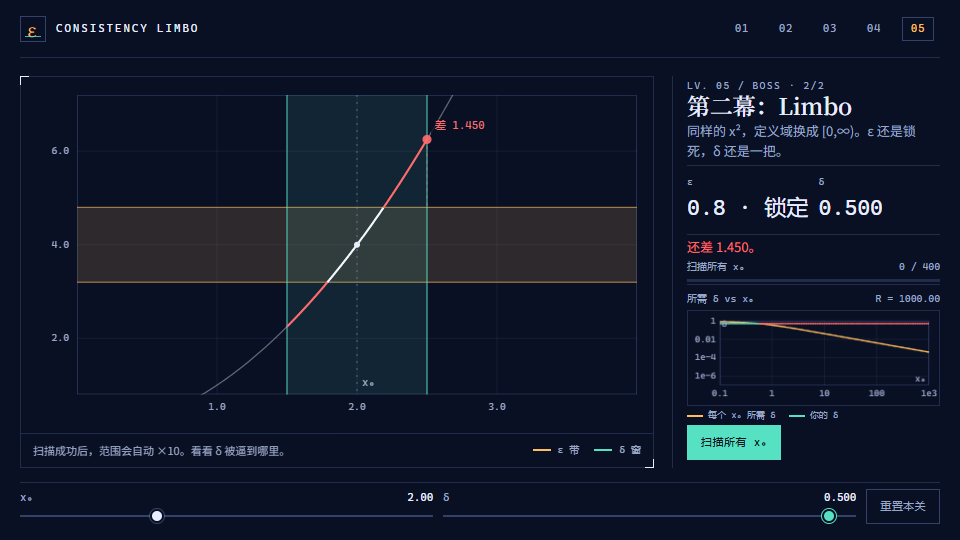
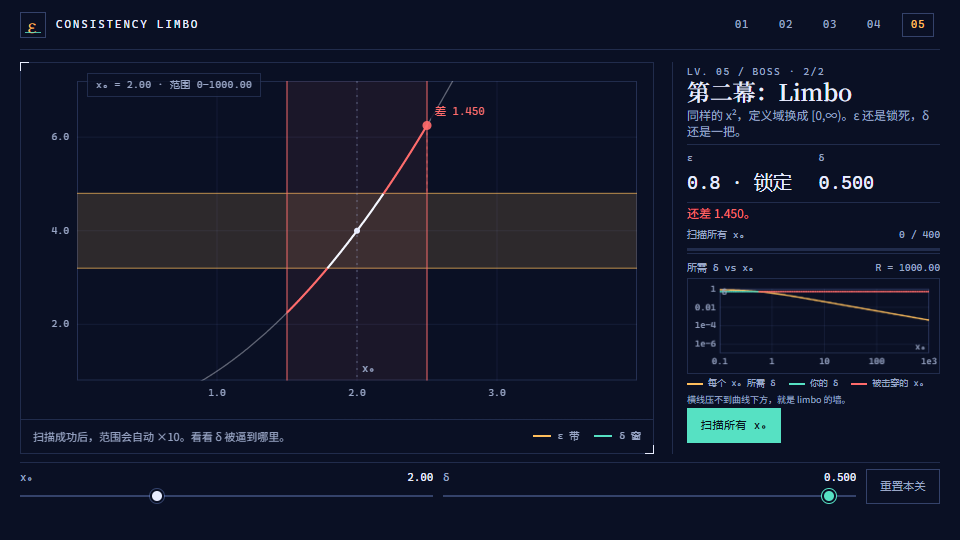
fix: close final review gaps in rendering, accessibility and fit
- clip domain hatches to each undefined mask and mark failing windows red
- make L2 canvas checkpoint markers jump x0; add level and hit tests
- keep the live status stable during scans while progress moves to the scan panel
- give the final overlay dialog semantics, focus and inert background; focus quiz options
- add boss act 2 scale ribbon, chart caption/legend and the honesty line
- harden the dev server (400 on bad encoding, dotfile 403, loopback bind)
- compact short viewports to fit 960x540; fix README wording; refresh GIF/PNG

diff --git a/src/main.js b/src/main.js
@@ -23,6 +23,7 @@ import {
   drawEnvelope,
   makeViewport,
   hitTest,
+  checkpointHit,
   screenToWorld,
 } from './renderer.js';
 
@@ -33,7 +34,9 @@ const reduceMotion = window.matchMedia('(prefers-reduced-motion: reduce)').match
 
 const $ = (id) => document.getElementById(id);
 const el = {
+  app: document.querySelector('.app'),
   canvas: $('canvas'),
+  scaleRibbon: $('scale-ribbon'),
   levelRail: $('level-rail'),
   stageKicker: $('stage-kicker'),
   stageTitle: $('stage-title'),
@@ -68,6 +71,9 @@ let progress = demoMode ? createProgress() : loadProgress();
 let state = createState(levelIndexFromParam(params.get('level')));
 let ui = { quizOpen: false, scanning: false, drag: null, message: null };
 let cameraX0 = state.x0;
+let overlayOpen = false;
+let quizFocusOpen = false;
+let lastStatus = { text: null, tone: null };
 
 function loadProgress() {
   try {
@@ -88,6 +94,37 @@ function saveProgress() {
 
 function delay(ms) {
   return new Promise((resolve) => setTimeout(resolve, ms));
+}
+
+function setStatus(text, tone) {
+  if (lastStatus.text === text && lastStatus.tone === tone) return;
+  lastStatus = { text, tone };
+  el.status.textContent = text;
+  el.status.classList.toggle('pass', tone === 'pass');
+  el.status.classList.toggle('fail', tone === 'fail');
+}
+
+function syncQuizFocus(open) {
+  if (open === quizFocusOpen) return;
+  quizFocusOpen = open;
+  if (open) {
+    el.quizPanel.querySelector('.quiz-option')?.focus();
+  } else if (!el.quizOpen.hidden) {
+    el.quizOpen.focus();
+  }
+}
+
+function syncOverlay(open) {
+  el.finalOverlay.hidden = !open;
+  if (open === overlayOpen) return;
+  overlayOpen = open;
+  el.app.inert = open;
+  if (open) {
+    el.replayButton.focus();
+  } else if (el.finalOverlay.contains(document.activeElement)) {
+    const active = el.levelRail.querySelector('.rail-item.active');
+    if (active) active.focus();
+  }
 }
 
 function formatX0(value) {
@@ -244,8 +281,8 @@ function loadLevel(index, stageIndex = 0) {
   const level = LEVELS[Math.max(0, Math.min(LEVELS.length - 1, index))];
   state = createState(LEVELS.indexOf(level), stageIndex);
   ui = { quizOpen: false, scanning: false, drag: null, message: null };
+  quizFocusOpen = false;
   cameraX0 = state.x0;
-  el.finalOverlay.hidden = true;
   buildRail();
   updateUrl();
   syncControls();
@@ -279,19 +316,24 @@ function renderUI() {
     !ui.quizOpen &&
     !state.completed
   );
-  el.finalOverlay.hidden = !(
-    state.levelIndex === 4 &&
-    state.stageIndex === 1 &&
-    state.completed
-  );
+  syncQuizFocus(ui.quizOpen);
+  syncOverlay(state.levelIndex === 4 && state.stageIndex === 1 && state.completed);
 
   if (isScan) {
     const total = scanTotal();
-    el.scanCount.textContent = `${scanIndex()} / ${total}`;
+    el.scanCount.textContent = ui.scanning
+      ? `x₀ = ${formatX0(scanCurrentX0())} · ${scanIndex()} / ${total}`
+      : `${scanIndex()} / ${total}`;
     el.scanFill.style.width = `${Math.max(0, Math.min(1, state.scan.progress)) * 100}%`;
   }
   if (stage.win.type === 'impossible-scan') {
     el.chartRange.textContent = `R = ${formatX0(state.scan.rangeMax)}`;
+    el.scaleRibbon.hidden = false;
+    el.scaleRibbon.textContent = `x₀ = ${formatX0(state.x0)} · 范围 0–${formatX0(
+      state.scan.rangeMax,
+    )}`;
+  } else {
+    el.scaleRibbon.hidden = true;
   }
 
   if (stage.win.type === 'checkpoints') {
@@ -335,7 +377,7 @@ function renderUI() {
     text = ui.message;
     tone = 'pass';
   } else if (ui.scanning) {
-    text = `扫描中 · x₀ = ${formatX0(scanCurrentX0())}`;
+    text = '正在扫描所有 x₀…';
   } else if (stage.win.type === 'impossible-scan' && state.completed) {
     text = '你撞到了 limbo 的墙。';
     tone = 'pass';
@@ -374,9 +416,7 @@ function renderUI() {
     tone = 'fail';
   }
 
-  el.status.textContent = text;
-  el.status.classList.toggle('pass', tone === 'pass');
-  el.status.classList.toggle('fail', tone === 'fail');
+  setStatus(text, tone);
   el.canvas.setAttribute(
     'aria-label',
     `x₀ = ${formatX0(state.x0)}，δ = ${formatDelta(state.delta)}。${
@@ -487,6 +527,15 @@ el.canvas.addEventListener('pointerdown', (event) => {
   const point = canvasPoint(event);
   const stage = getStage(state);
   const viewport = makeViewport(point.size, stage, state, cameraX0);
+  const checkpoint = checkpointHit(viewport, stage, state, point.x, point.y);
+  if (checkpoint !== null) {
+    state = setX0(state, checkpoint);
+    commitProgress();
+    syncControls();
+    render({ chart: true });
+    event.preventDefault();
+    return;
+  }
   const hit = hitTest(viewport, stage, state, point.x, point.y);
   if (!hit) return;
   el.canvas.setPointerCapture(event.pointerId);
@@ -505,6 +554,11 @@ el.canvas.addEventListener('pointermove', (event) => {
   const stage = getStage(state);
   if (!ui.drag) {
     const viewport = makeViewport(point.size, stage, state, cameraX0);
+    const checkpoint = checkpointHit(viewport, stage, state, point.x, point.y);
+    if (checkpoint !== null) {
+      el.canvas.style.cursor = 'pointer';
+      return;
+    }
     const hit = hitTest(viewport, stage, state, point.x, point.y);
     el.canvas.style.cursor =
       hit === 'delta' ? 'ew-resize' : hit === 'x0' ? 'grab' : 'default';
@@ -607,8 +661,8 @@ if (demoMode) {
     loadLevel: (levelIndex, stageIndex = 0) => {
       state = createState(levelIndex, stageIndex);
       ui = { quizOpen: false, scanning: false, drag: null, message: null };
+      quizFocusOpen = false;
       cameraX0 = state.x0;
-      el.finalOverlay.hidden = true;
       buildRail();
       syncControls();
       render({ chart: true });

diff --git a/styles.css b/styles.css
@@ -56,6 +56,7 @@ a { color: inherit; text-decoration: none; }
 .stage::before, .stage::after { content: ""; position: absolute; width: 8px; height: 8px; border-color: var(--line-strong); pointer-events: none; }
 .stage::before { left: -1px; top: -1px; border-left: 1px solid; border-top: 1px solid; }
 .stage::after { right: -1px; bottom: -1px; border-right: 1px solid; border-bottom: 1px solid; }
+.scale-ribbon { position: absolute; top: 10px; left: 66px; z-index: 1; pointer-events: none; padding: 3px 8px; border: 1px solid var(--line); background: rgba(10, 16, 36, .82); color: var(--muted); font-family: var(--font-mono); font-size: 10px; letter-spacing: .03em; font-variant-numeric: tabular-nums; white-space: nowrap; }
 #canvas { display: block; width: 100%; aspect-ratio: 16 / 9; min-height: 260px; touch-action: none; cursor: default; }
 .stage-footer { display: flex; justify-content: space-between; align-items: center; gap: 14px; border-top: 1px solid var(--line); padding: 8px 12px; color: var(--muted); font-size: 11px; }
 .stage-hint { overflow: hidden; text-overflow: ellipsis; white-space: nowrap; }
@@ -100,6 +101,8 @@ a { color: inherit; text-decoration: none; }
 .legend-line { width: 16px; height: 2px; display: inline-block; }
 .legend-required { background: var(--band); }
 .legend-yours { background: var(--window); margin-left: 8px; }
+.legend-breach { background: var(--danger); margin-left: 8px; }
+.chart-note { margin: 0; color: var(--muted); font-size: 10px; line-height: 1.35; }
 .quiz { display: flex; flex-direction: column; gap: 6px; padding-top: 10px; border-top: 1px solid var(--line); }
 .quiz-q { margin: 0 0 4px; font-size: 13px; }
 .quiz-option { text-align: left; border: 1px solid var(--line); background: transparent; padding: 7px 9px; color: var(--text); font-size: 12px; cursor: pointer; }
@@ -153,11 +156,17 @@ input[type="range"]:disabled { opacity: .35; cursor: not-allowed; }
   .overlay-card h2 { font-size: 28px; }
 }
 @media (max-height: 620px) and (min-width: 720px) {
+  .app { padding-bottom: 6px; }
+  .topbar { height: 50px; }
+  .layout { padding-top: 12px; padding-bottom: 8px; }
   .rail { gap: 2px; }
-  .status { min-height: 20px; }
+  .objective { font-size: 12px; line-height: 1.4; }
+  .status { min-height: 20px; font-size: 12px; line-height: 1.35; }
   #envelope { height: 96px; }
   .boss-chart { padding-top: 6px; gap: 3px; }
-  .readouts { padding: 8px 0; }
+  .chart-note { font-size: 9px; line-height: 1.3; }
+  .readouts { padding: 5px 0; }
+  .readouts dd { font-size: 19px; }
   .controls { padding-top: 6px; gap: 10px; }
   .control { gap: 2px; }
   input[type="range"] { height: 16px; }

diff --git a/src/renderer.js b/src/renderer.js
@@ -87,6 +87,26 @@ export function hitTest(viewport, stage, state, px, py) {
   return null;
 }
 
+export function checkpointHit(viewport, stage, state, px, py) {
+  if (!stage || stage.win.type !== 'checkpoints' || !Array.isArray(state.checkpoints)) {
+    return null;
+  }
+  const { plot } = viewport;
+  if (py < plot.y - 10 || py > plot.y + plot.h + 10) return null;
+  let best = null;
+  let bestDistance = 12;
+  for (const cp of state.checkpoints) {
+    const sx = worldToScreen(viewport, cp.value, 0).x;
+    if (sx < plot.x - 12 || sx > plot.x + plot.w + 12) continue;
+    const distance = Math.abs(px - sx);
+    if (distance <= bestDistance) {
+      bestDistance = distance;
+      best = cp.value;
+    }
+  }
+  return best;
+}
+
 function niceStep(span, count) {
   const raw = span / Math.max(1, count);
   const mag = 10 ** Math.floor(Math.log10(raw || 1));
@@ -119,7 +139,7 @@ function formatTick(value, span) {
 function gapText(gap) {
   if (!Number.isFinite(gap)) return '∞';
   if (gap <= 0) return '0';
-  if (gap < 0.001) return gap.toExponential(2);
+  if (gap < 0.001 || gap >= 1000) return gap.toExponential(2);
   return gap.toFixed(3);
 }
 
@@ -188,6 +208,10 @@ function drawDomainMasks(ctx, viewport, domain) {
     if (b <= a) continue;
     const x1 = worldToScreen(viewport, a, 0).x;
     const x2 = worldToScreen(viewport, b, 0).x;
+    ctx.save();
+    ctx.beginPath();
+    ctx.rect(x1, plot.y, x2 - x1, plot.h);
+    ctx.clip();
     ctx.fillStyle = 'rgba(140,170,255,0.045)';
     ctx.fillRect(x1, plot.y, x2 - x1, plot.h);
     ctx.strokeStyle = 'rgba(140,170,255,0.10)';
@@ -205,6 +229,7 @@ function drawDomainMasks(ctx, viewport, domain) {
       ctx.textBaseline = 'top';
       ctx.fillText('定义域外', (x1 + x2) / 2, plot.y + 8);
     }
+    ctx.restore();
   }
   ctx.restore();
 }
@@ -247,9 +272,9 @@ function drawWindow(ctx, viewport, state, time, reduceMotion) {
   ctx.clip();
   ctx.fillStyle = state.check.passed
     ? `rgba(123,241,168,${0.06 + pulse * 0.04})`
-    : COLORS.windowFill;
+    : 'rgba(255,107,107,0.07)';
   ctx.fillRect(left, plot.y, right - left, plot.h);
-  ctx.strokeStyle = state.check.passed ? COLORS.success : COLORS.window;
+  ctx.strokeStyle = state.check.passed ? COLORS.success : COLORS.danger;
   ctx.globalAlpha = state.check.passed ? 0.65 + pulse * 0.35 : 0.8;
   ctx.lineWidth = 1.2;
   ctx.beginPath();

diff --git a/tests/levels.test.js b/tests/levels.test.js
@@ -1,0 +1,54 @@
+import test from 'node:test';
+import assert from 'node:assert/strict';
+import { LEVELS } from '../src/levels.js';
+import { createState } from '../src/game.js';
+import { makeViewport, worldToScreen, checkpointHit } from '../src/renderer.js';
+
+const size = { width: 800, height: 450 };
+
+test('exactly five levels, with boss two acts and the rest single-stage', () => {
+  assert.equal(LEVELS.length, 5);
+  assert.deepEqual(
+    LEVELS.map((level) => level.index),
+    [1, 2, 3, 4, 5],
+  );
+  assert.deepEqual(
+    LEVELS.map((level) => level.stages.length),
+    [1, 1, 1, 1, 2],
+  );
+  const boss = LEVELS[4];
+  assert.equal(boss.id, 'level-5');
+  assert.deepEqual(
+    boss.stages.map((stage) => stage.win.type),
+    ['scan-all', 'impossible-scan'],
+  );
+});
+
+test('L2 exposes three checkpoints and canvas hit testing finds them', () => {
+  const stage = LEVELS[1].stages[0];
+  assert.equal(stage.win.type, 'checkpoints');
+  assert.deepEqual(stage.win.values, [0.5, 1.5, 3.0]);
+
+  const state = createState(1);
+  const viewport = makeViewport(size, stage, state);
+  const py = viewport.plot.y + viewport.plot.h / 2;
+
+  for (const cp of state.checkpoints) {
+    const px = worldToScreen(viewport, cp.value, 0).x;
+    assert.equal(checkpointHit(viewport, stage, state, px, py), cp.value);
+  }
+
+  const first = worldToScreen(viewport, state.checkpoints[0].value, 0).x;
+  assert.equal(checkpointHit(viewport, stage, state, first + 20, py), null);
+  assert.equal(checkpointHit(viewport, stage, state, first, viewport.plot.y - 40), null);
+});
+
+test('checkpoint hit testing only applies to the checkpoint stage', () => {
+  const stage = LEVELS[0].stages[0];
+  const state = createState(0);
+  const viewport = makeViewport(size, stage, state);
+  assert.equal(
+    checkpointHit(viewport, stage, state, viewport.plot.x + 40, viewport.plot.y + 40),
+    null,
+  );
+});

diff --git a/index.html b/index.html
@@ -24,6 +24,7 @@
 
     <main class="layout">
       <section class="stage" aria-label="函数图像">
+        <div id="scale-ribbon" class="scale-ribbon" hidden></div>
         <canvas id="canvas" role="img" aria-label="ε-δ 图像"></canvas>
         <div class="stage-footer">
           <span id="stage-hint" class="stage-hint">拖动 δ 窗口的边，或使用下方滑块。</span>
@@ -54,7 +55,9 @@
           <p class="chart-legend">
             <span class="legend-line legend-required"></span>每个 x₀ 所需 δ
             <span class="legend-line legend-yours"></span>你的 δ
+            <span class="legend-line legend-breach"></span>被击穿的 x₀
           </p>
+          <p class="chart-note">横线压不到曲线下方，就是 limbo 的墙。</p>
         </div>
         <div class="actions">
           <button id="scan-button" class="button primary" type="button" hidden>扫描所有 x₀</button>
@@ -84,11 +87,19 @@
     </footer>
   </div>
 
-  <div id="final-overlay" class="overlay" hidden>
+  <div
+    id="final-overlay"
+    class="overlay"
+    role="dialog"
+    aria-modal="true"
+    aria-labelledby="final-title"
+    hidden
+  >
     <div class="overlay-card">
       <p class="kicker">LV. 05 / LIMBO</p>
-      <h2>你撞到了 limbo 的墙</h2>
+      <h2 id="final-title">你撞到了 limbo 的墙</h2>
       <p>x² 在 [0,∞) 上不一致连续。限制定义域到 [0, b]，一个 δ 就又能管住所有 x₀。</p>
+      <p>任何有限范围都能找到足够小的 δ；没有统一 δ，是因为 x₀ 没有上限。</p>
       <div class="overlay-actions">
         <button id="replay-button" class="button primary" type="button">再玩一次</button>
         <button id="home-button" class="button quiet" type="button">回到第一关</button>

diff --git a/README.md b/README.md
@@ -5,7 +5,7 @@
 *An interactive ε-δ playground for real-analysis students — drag until continuity clicks.*
 
 <p align="center">
-  <img src="assets/demo.gif" width="720" alt="Consistency Limbo：拖动 ε、δ 和 x₀，最后在一致连续 boss 关撞上没有统一 δ 的墙">
+  <img src="assets/demo.gif" width="720" alt="Consistency Limbo：拖动 δ 和 x₀，ε 锁定，最后在一致连续 boss 关撞上没有统一 δ 的墙">
 </p>
 
 <p align="center">
@@ -39,7 +39,7 @@
 
 第二幕里，每次你觉得找到了，范围就自动 ×10。任何固定的 δ 都会在更远处被击穿。右侧包络图画出“每个 x₀ 至少需要多小的 δ”，你的 δ 是一条横线——横线永远压不到曲线下方。
 
-这不是形式证明；它是一次可以亲手撞上的演示。README 的 Known limitations 里写清了这一点。
+这不是形式证明；它是一次可以亲手撞上的演示。README 的已知限制里写清了这一点。
 
 ## 和现有 ε-δ 工具的区别
 
